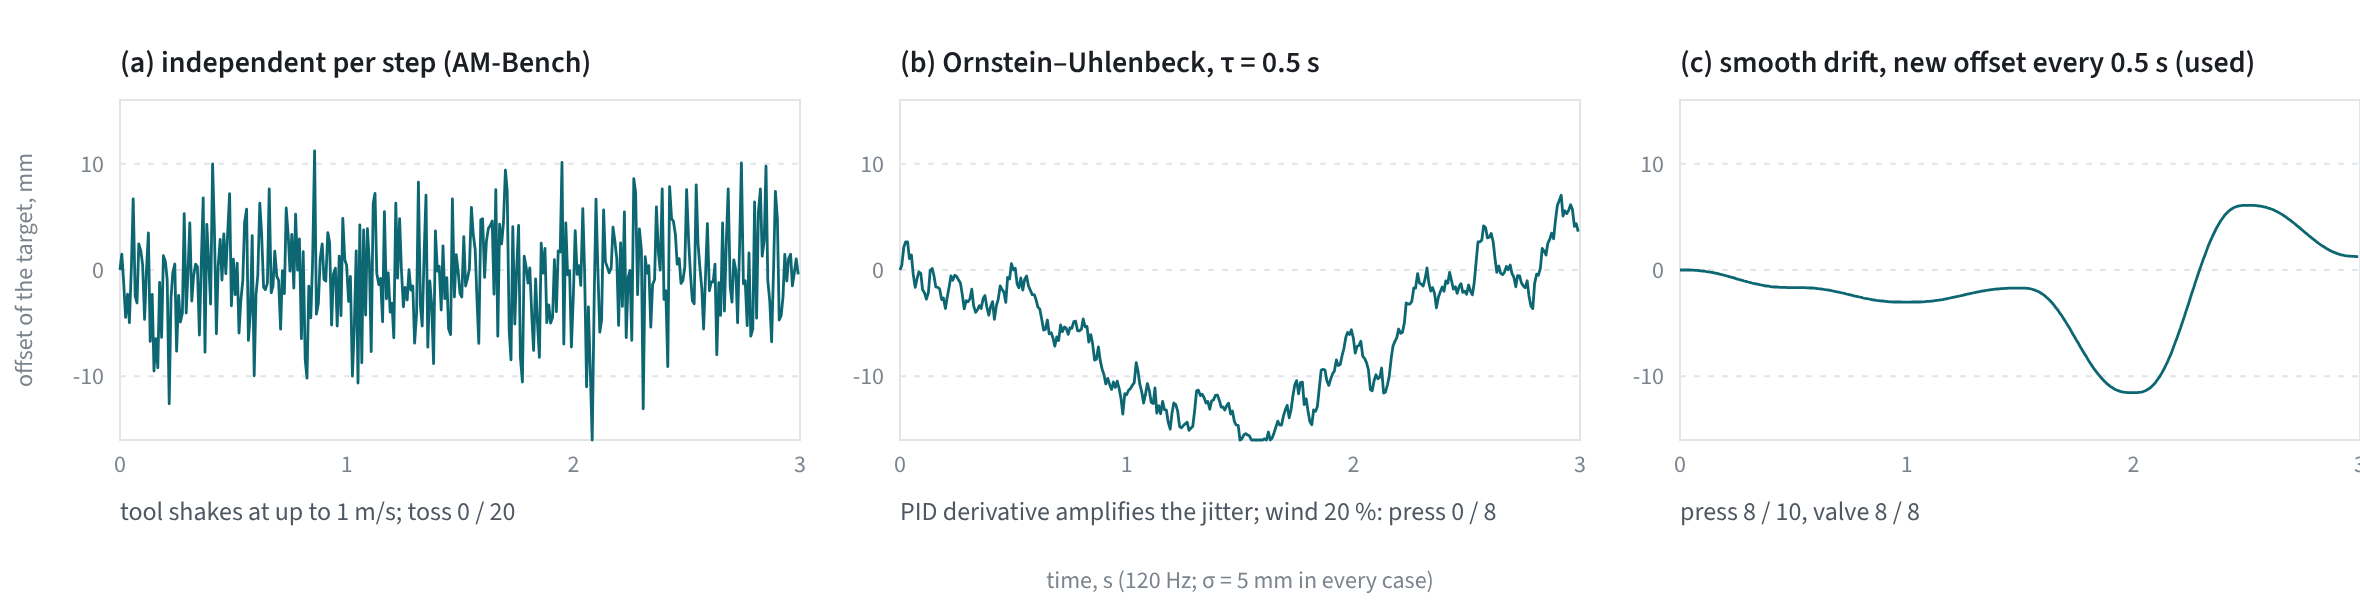
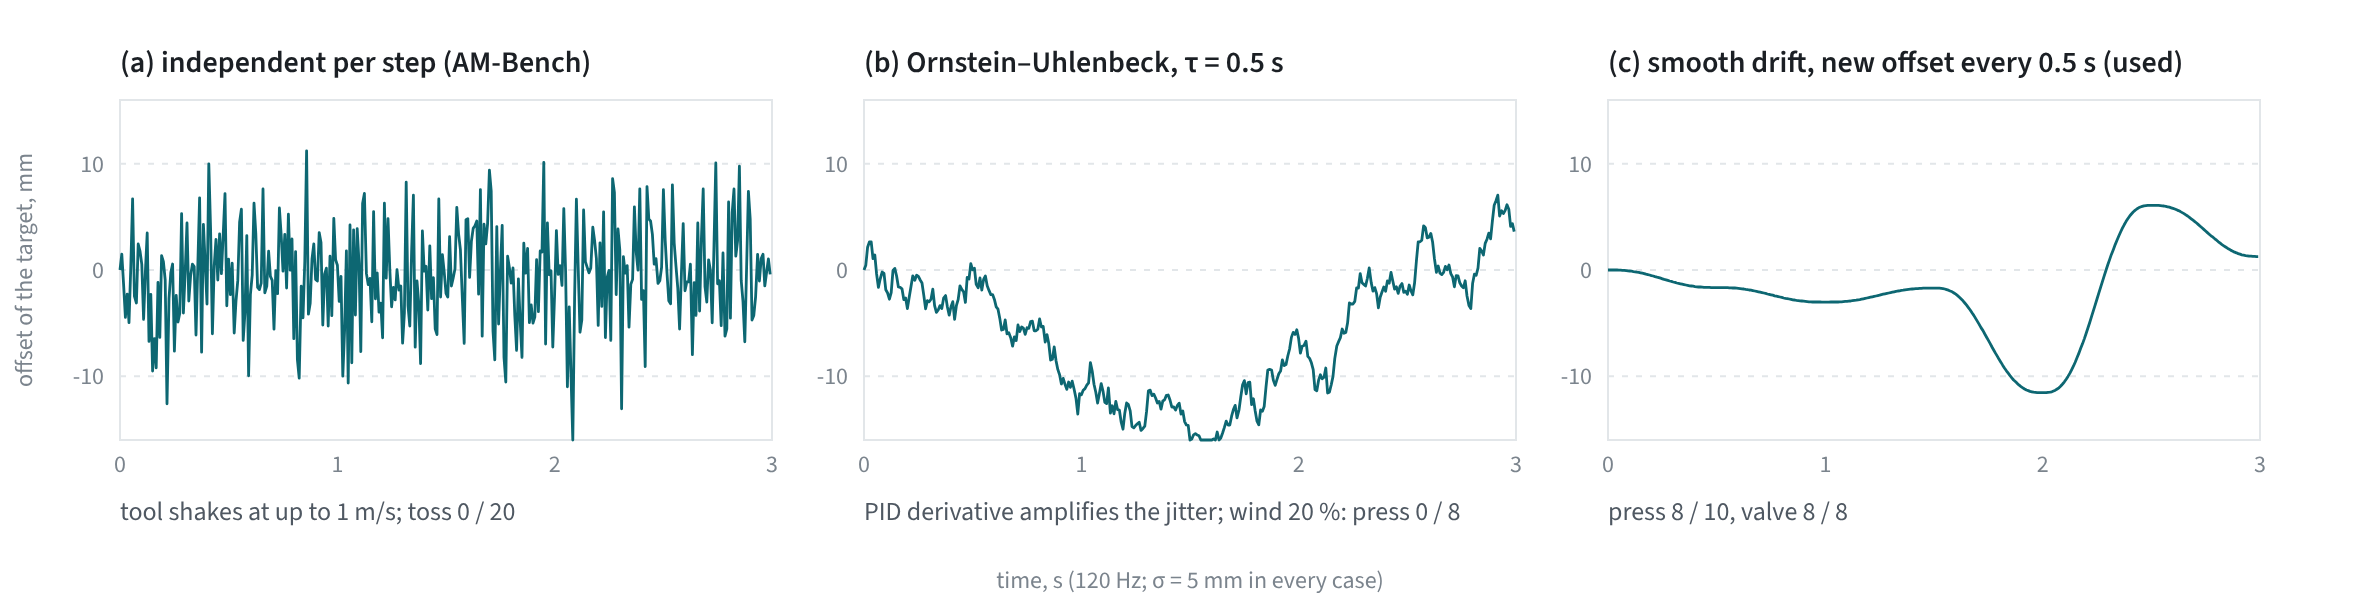
Text spans the full container; noise figure keeps its third panel inside the frame

diff --git a/styles.css b/styles.css
@@ -16,7 +16,6 @@
   --sans: "Source Sans 3", "Segoe UI", system-ui, -apple-system, sans-serif;
   --mono: "IBM Plex Mono", ui-monospace, "SFMono-Regular", Menlo, monospace;
   --wide: 1180px;      /* one container for everything: text, tables, figures, part cards */
-  --measure: 960px;    /* running text stays at a readable line length, left-aligned in the container */
 }
 
 * { box-sizing: border-box; }
@@ -45,8 +44,7 @@ sub { font-size: 0.72em; }
   padding-right: max(20px, env(safe-area-inset-right, 0px));
 }
 .wrap.wide { max-width: var(--wide); }
-/* Paragraphs, lists, small tables and stat cards keep a readable measure; headings, figures and the task matrix use the full width. */
-.wrap > p, .wrap > .points, .wrap > .refs, .wrap > .note, .wrap > .sub, .wrap > .stats, .wrap > .table-wrap, .title-block > .lede, .title-block > h1 { max-width: var(--measure); }
+/* Text, tables, figures and the task matrix all span the container, so their edges line up. */
 
 /* Navigation */
 .nav {

diff --git a/index.html b/index.html
@@ -9,7 +9,7 @@
   <link rel="preconnect" href="https://fonts.googleapis.com">
   <link rel="preconnect" href="https://fonts.gstatic.com" crossorigin>
   <link href="https://fonts.googleapis.com/css2?family=IBM+Plex+Mono:wght@400;500&family=Source+Sans+3:wght@400;600;700&display=swap" rel="stylesheet">
-  <link rel="stylesheet" href="styles.css?v=20261020c">
+  <link rel="stylesheet" href="styles.css?v=20261020d">
 </head>
 <body>
   <header class="nav">
